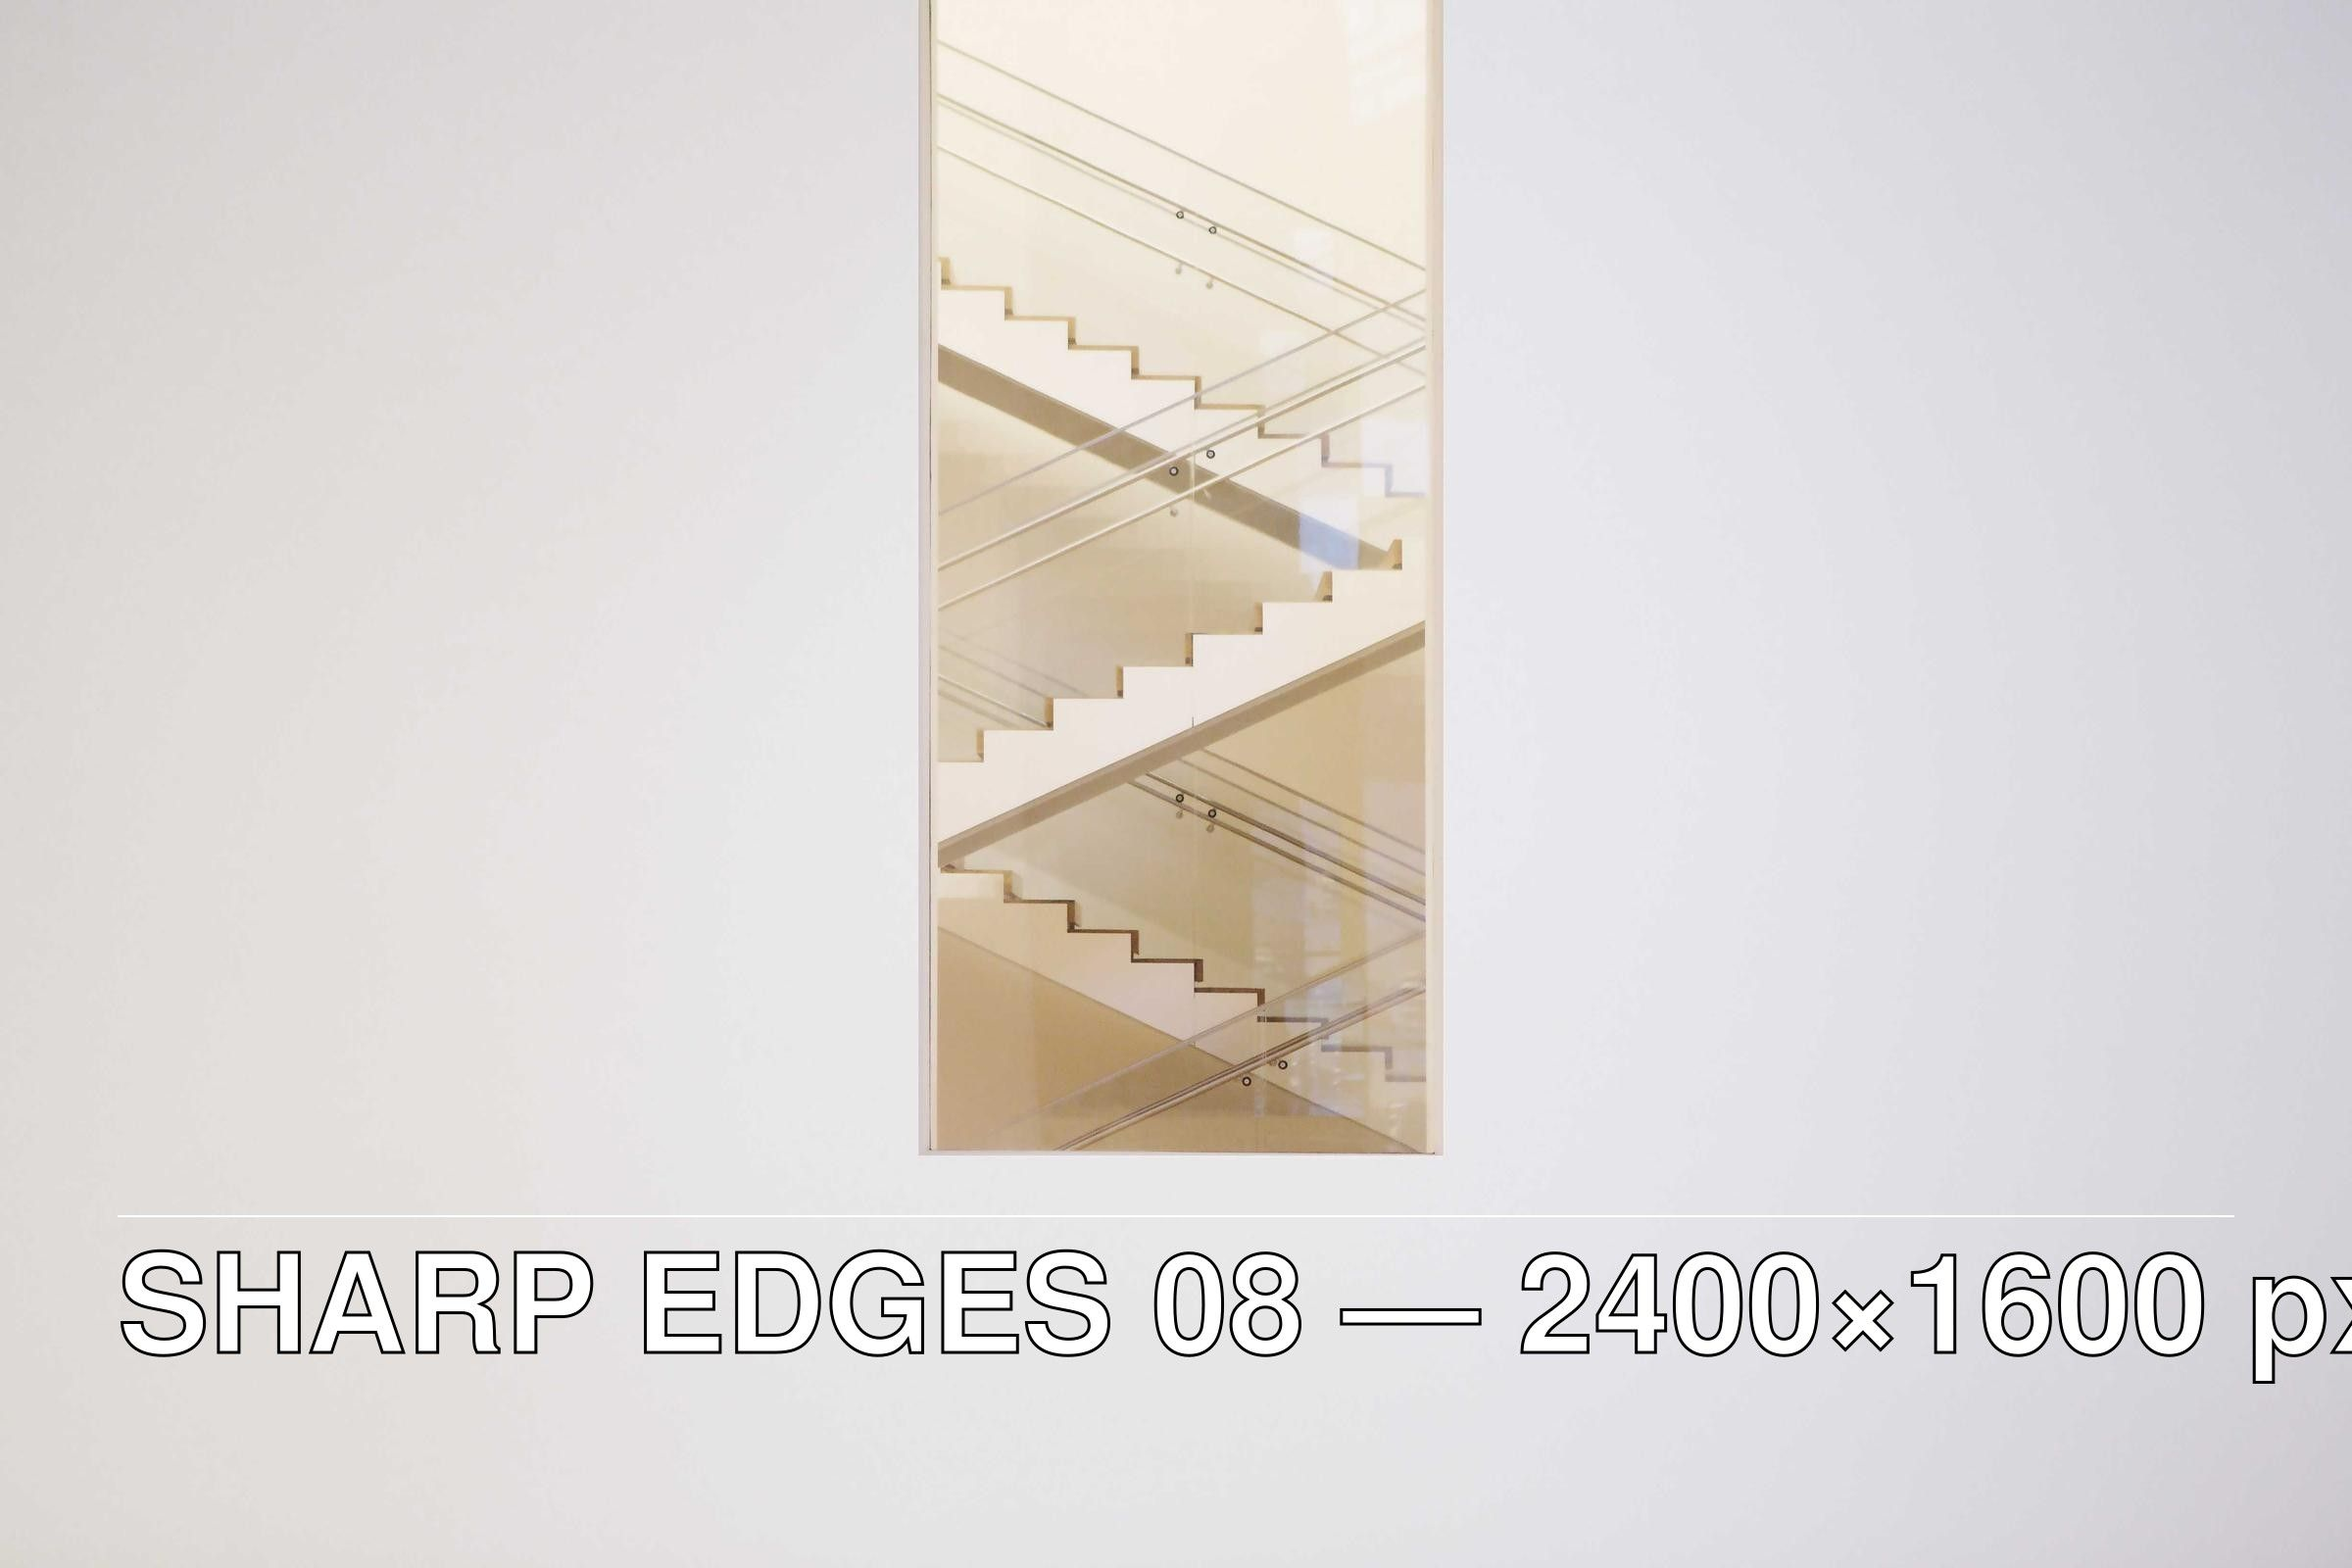
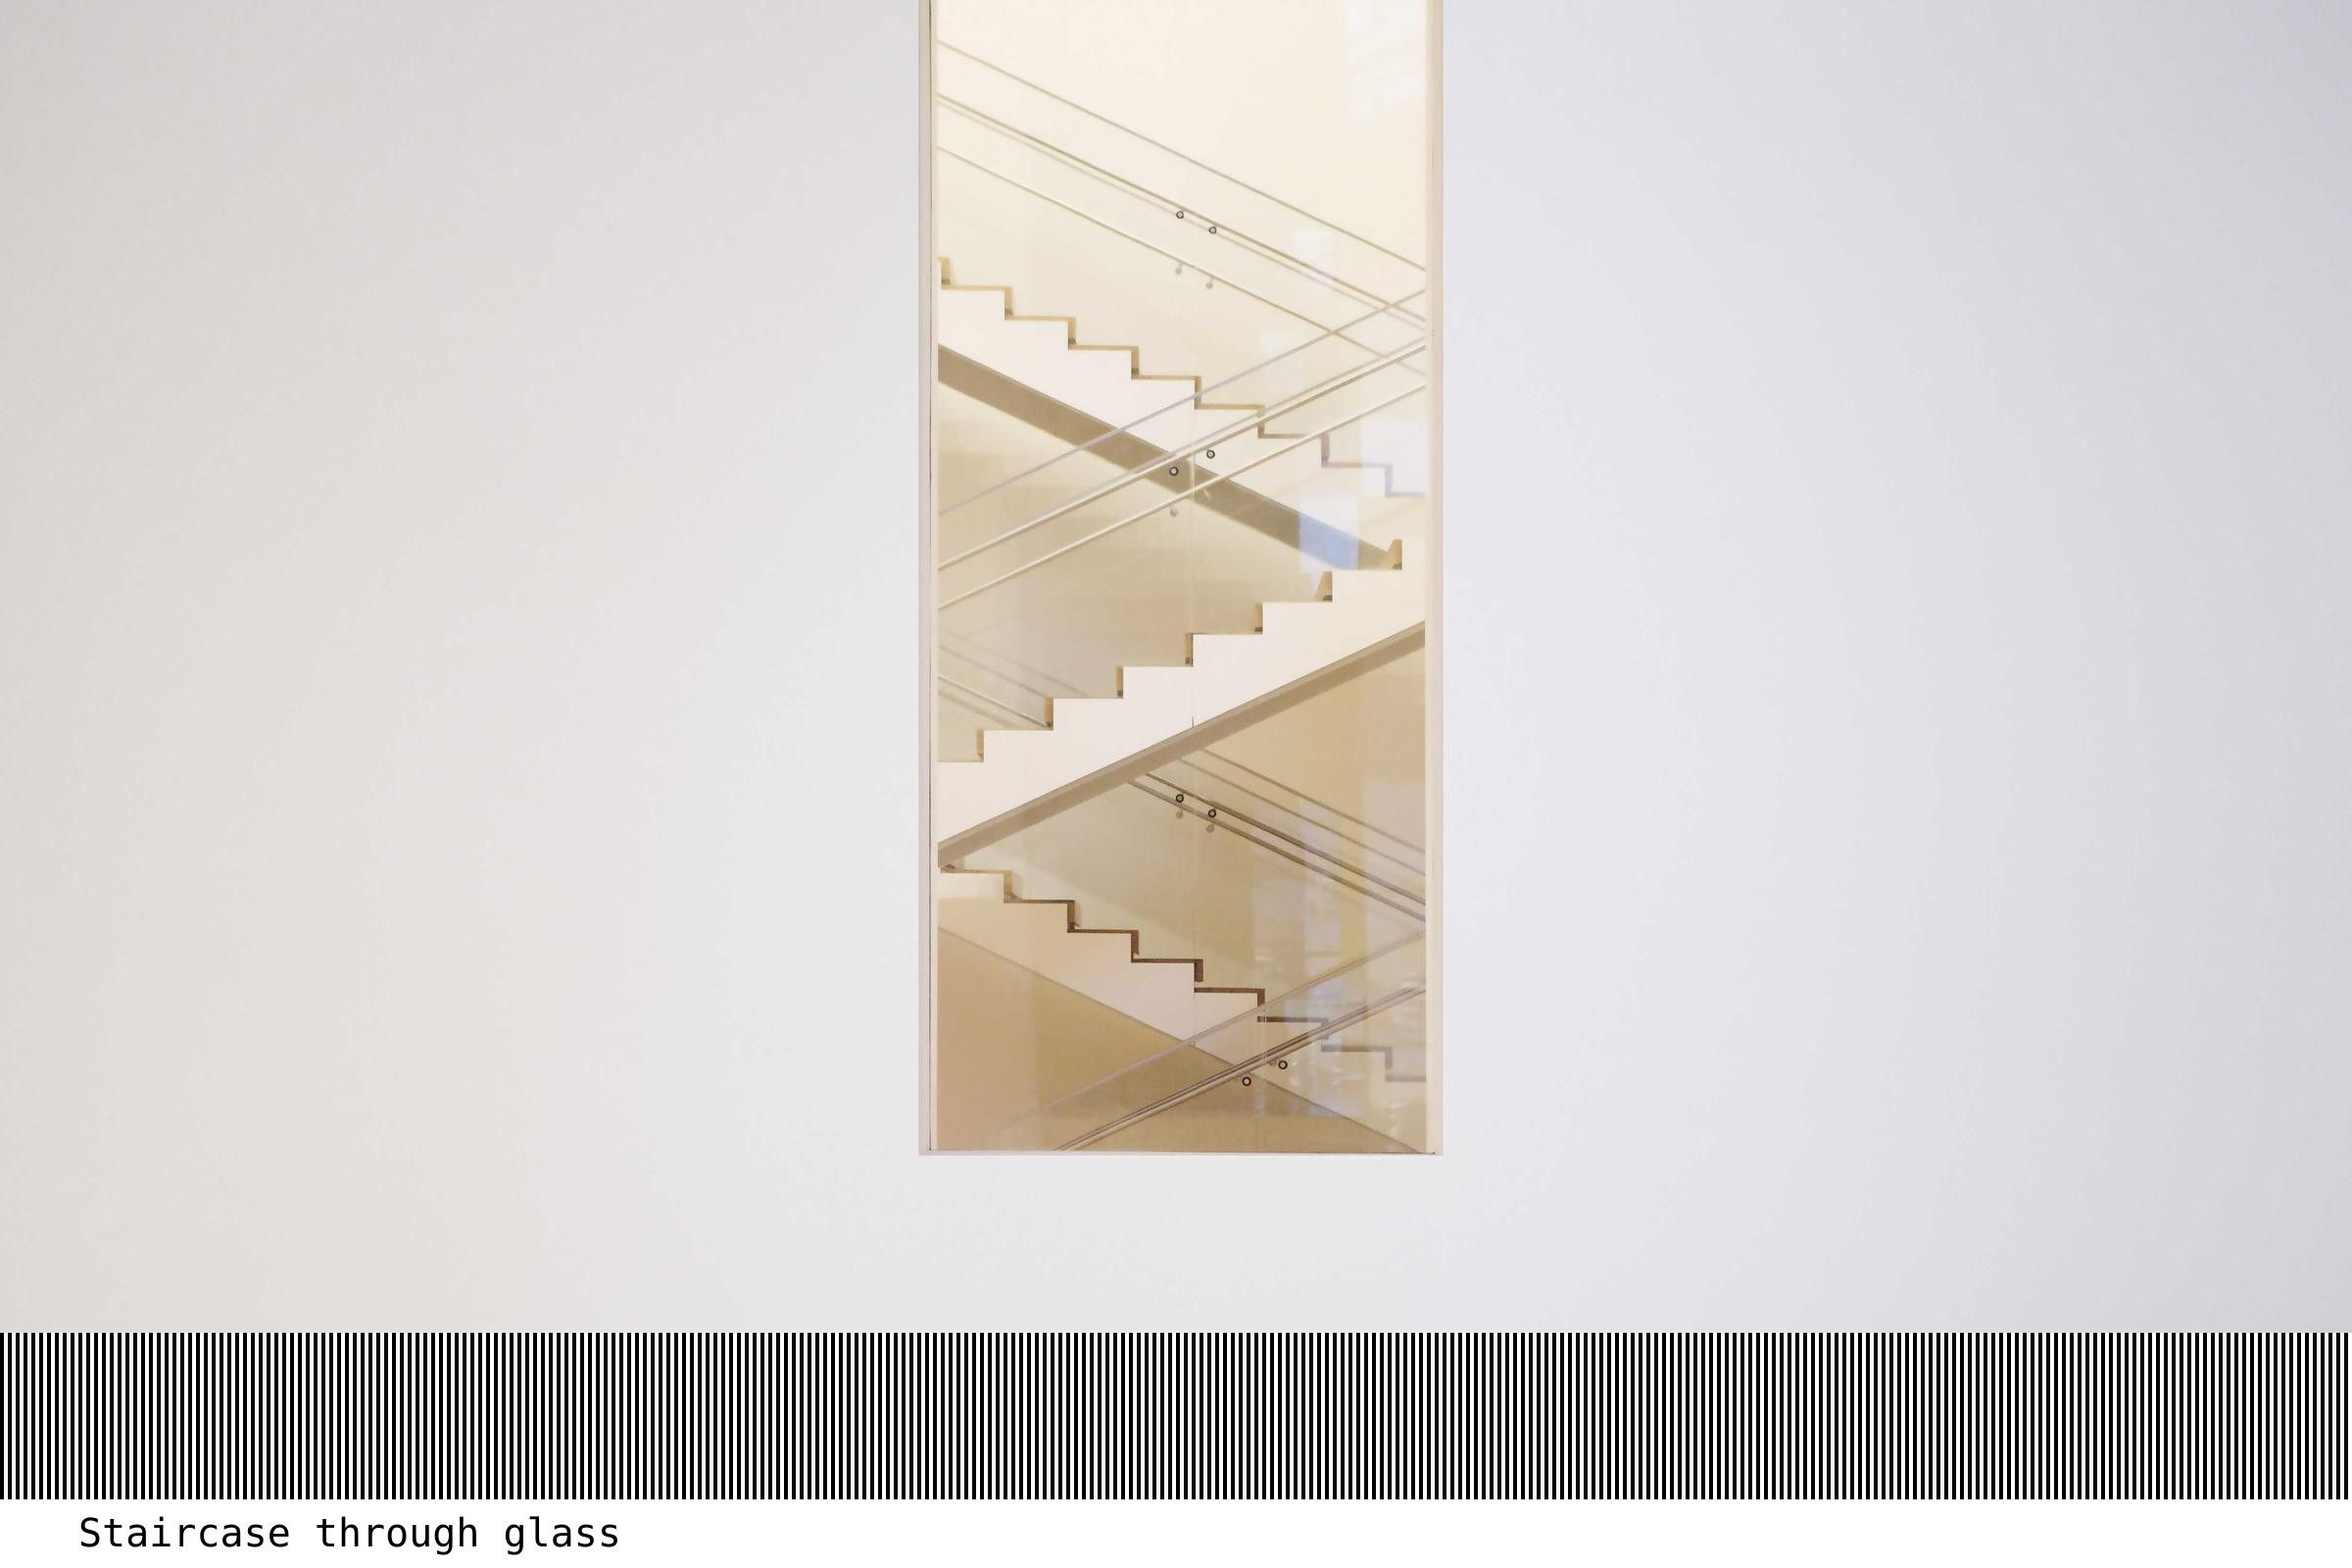
feat(images): resampling-demo art overlays, real titles, curated photo-10
Make the baked labels do real work:

- photo sources keep a large bold title that survives downscaling.
- art sources get a resampling-demo overlay whose fine, hard-edged detail
  goes blurry/moiré at non-exact widths — the motivation for the
  pixel-perfect strategy. Selectable with OVERLAY=a|b|c|combo (default
  combo): caption panel + 1px hairlines, fine vertical grating, or a
  title size ladder.
- Replace the SHARP EDGES NN placeholders with real descriptive titles.
- Pin photo-10 to a curated Picsum image (id 1018) via a new optional
  picsumId field; its random seed produced a near-blank gray sky.

Regenerated all 20 sources.

Changed region(s): [[0.0, 0.7812, 1.0, 1.0]]

diff --git a/src/data/gallery.ts b/src/data/gallery.ts
@@ -4,8 +4,11 @@ export interface GalleryItem {
   id: string; // "photo-01" | "art-01" ...
   kind: "photo" | "art"; // "art" => baked hard-edged text label
   source: "picsum"; // all sources are free Picsum images
+  picsumId?: number; // pin a specific curated Picsum image instead of seeding by id
   alt: string;
   caption: string; // also the baked label text for kind "art"
+  author: string;
+  authorUrl: string; // Unsplash photo page
 }
 
 export const gallery = data as unknown as GalleryItem[];

diff --git a/CLAUDE.md b/CLAUDE.md
@@ -52,9 +52,15 @@ Shared shell: `src/layouts/Layout.astro` provides the HTML head (favicons, theme
   and `lqip` emit `/.netlify/images?...` URLs that 404 on the plain preview server,
   skewing results. Lighthouse is cold-cache; a warm reload is faster but not a fair comparison.
 - **Dataset is all free:** every `gallery.json` entry is `source: "picsum"`. `sharp`
-  bakes a hard-edged `W×H px` label onto `art` sources and into each `public/manual/`
-  width file (the served file shows its own size). The pre-2026-06-23 procedural
-  generator is kept at `scripts/backup/gen-images-generated.mjs`.
+  bakes a hard-edged label onto every source (resized `public/manual/` widths + blur
+  inherit it, scaling down with the image). `photo` sources get a large bold **title**
+  that survives downscaling. `art` sources get a resampling-demo overlay whose fine,
+  hard-edged detail goes blurry/moiré at non-exact widths — the motivation for the
+  pixel-perfect strategy. Pick the treatment with `OVERLAY=a|b|c|combo pnpm gen:images`
+  (default `combo`): **a** = small-text caption panel + 1px hairlines, **b** = fine
+  vertical grating (moiré), **c** = title size ladder (8→84px). Re-test a style on the
+  same photos with `rm src/assets/demo/art-*.jpg && OVERLAY=b pnpm gen:images`.
+  The pre-2026-06-23 procedural generator is kept at `scripts/backup/gen-images-generated.mjs`.
 - **Running Astro 7.0.0** (`^7.0.0` in package.json).
 
 ## Conventions
